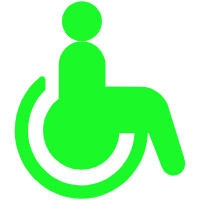
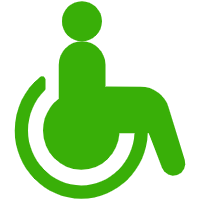
修改图标; 修复显示时的小问题

diff --git a/components/metro_line_card/metro_line_card.vue b/components/metro_line_card/metro_line_card.vue
@@ -14,7 +14,7 @@
         <text v-if="showWashroomList"
               class="washrooms underline"
               @tap.stop="toggleWashroomList()">
-          {{ line.showWashroomList ? '收起' : '洗手间' }}
+          {{ line.washroomShow ? '收起' : '洗手间' }}
         </text>
         <text class="detail underline"
               @tap.stop="directionDetail(line.name)">
@@ -66,7 +66,7 @@
     </view>
     <view class="washrooms-block" v-if="line.washroomShow">
       <loading :title="`${line.name}洗手间信息载入中...`"
-               v-if="line.stationsLoading">
+               v-if="line.washroomsLoading">
       </loading>
       <view v-else class="washrooms-container">
         <view class="subtitle">
@@ -77,7 +77,7 @@
         </view>
         <view v-for="(w, j) in washrooms" :key="j" class="washroom-item">
           <image :src="getIconPath(w)" mode="widthFix" class="icon"></image>
-          <text class="desc">{{ w.description }}</text>
+          <text class="desc">{{ `${w.type}  ${w.description}` }}</text>
         </view>
       </view>
     </view>

diff --git a/components/metro_line_card/metro_line_card.less b/components/metro_line_card/metro_line_card.less
@@ -162,7 +162,7 @@
         }
 
         .both {
-          background-color: #1afa29;
+          background-color: #39af08;
         }
 
         .in {
